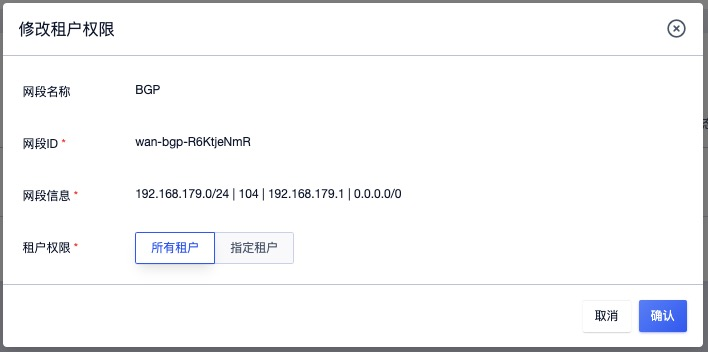
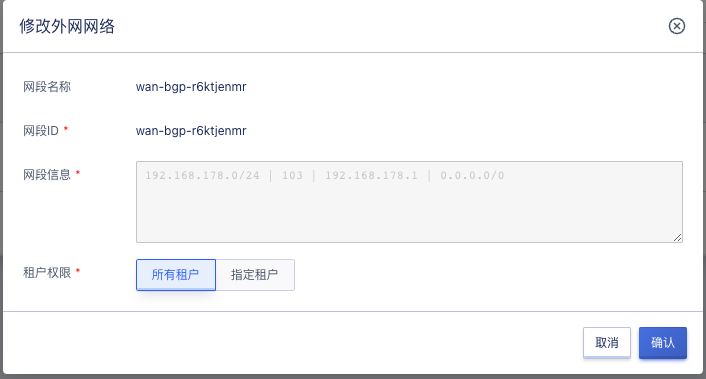
add 2.6

diff --git a/adminguide/license.md b/adminguide/license.md
@@ -2,61 +2,72 @@
 
 ## 11.1 概述
 
-授权管理支持客户按需对基层模块和增值服务模块分开授权，支持用户按照x86/arm架构区分授权节点，根据业务需求选择各模块的授权生效时间和失效时间，平台通过授权证书激活保证了密钥不可克隆验证的唯一性。
+授权管理支持客户按需对基层模块和增值服务模块分开授权，支持用户按照x86/arm架构区分授权节点，根据业务需求选择各模块授权的生效时间和失效时间，平台通过授权证书激活保证了密钥不可克隆验证的唯一性。
 
-平台为用户提供完整的授权管理能力，包括授权管理、服务管理和节点管理三大模块。
+平台为用户提供完整的授权管理能力，包括授权管理和节点管理两大模块。
 
-- 授权管理：查看客户的项目信息的授权状态及总揽授权对象信息等。
-- 服务管理：查看所有授权对象的授权状态和数量限制信息，了解产品授权生效和失效时间等。
+- 授权管理：查看平台基础许可、拓展许可和服务许可，了解产品授权的状态、生效时间、失效时间和数量限制信息等。
+
 - 节点管理：查看平台所有节点授权状态及节点信息情况等。
 
 ## 11.2 授权管理
 
-管理员对平台的信息进行采集供运营平台使用，运营平台确定用户的需求生成授权证书再上传至平台使用，如下图所示：
+管理员对平台的信息进行采集可点击【**信息采集**】按钮供运营平台使用，运营平台确定用户的需求生成授权证书再上传至平台可点击【**上传授权**】按钮使用，如下图所示：
 
 ![order](../images/adminguide/license.png)
 
-- 客户名称：授权验证的项目所属客户。
-- 项目名称：授权验证所属的项目。
-- 状态：项目授权状态。
-- 授权作用对象：包含授权证书授权作用对象及授权特性。
-- 开始时间：授权证书生效的时间。
-- 结束时间：授权证书失效的时间。
+### 11.2.1 查看基础拓展许可
 
-授权管理支持查看授权作用对象信息，如下图所示：
+基础许可：支持云计算基础设施管理系统套件-标准版、云计算基础设施管理系统套件-信创版和分布式块存储套件的授权；
 
-![order](../images/adminguide/licenseobject.png)
+拓展许可：支持云套件功能拓展、高级网络扩展、裸金属服务、USB 透传服务、GPU 服务、弹性伸缩服务、商用存储服务、文件存储服务、对象存储服务、MySQL 5.7 服务、Redis 4.0 服务和异构平台迁移软件服务的授权，如下图所示：
 
-## 11.3 服务管理
+![order](../images/adminguide/license.png)
 
-用户可通过服务管理查看授权对象的详细信息，了解到产品的数量限制、授权状态、生效和失效时间等，如下图所示：
+- 授权名称：授权产品名称；
+- 授权ID：授权唯一标识；
+- 描述：许可描述信息；
+- 状态：项目授权状态；
+- 开始时间：授权证书生效的时间；
+- 结束时间：授权证书失效的时间；
+- 操作：支持查看基础许可授权细节操作，如下图所示：
 
-![order](../images/adminguide/license1.png)
+### 11.2.2 查看服务许可
 
-- 授权对象：支持授权的产品，包含镜像、弹性伸缩、隔离组、运维、云硬盘、快照、负载均衡、安全组、应用商店、组播、MySQL、监控告警、外网IP、VPN、网关、物理机、VPC、网卡、虚拟机模板、NAT网关、对象存储、文件存储、VIP、虚拟机、Redis、数据库运维、外置存储、USB。
-- 状态：授权对象的授权状态。
-- 授权特性：显示对授权对象数量的限制。
-- 开始时间：授权对象被授权生效的时间。
-- 结束时间：授权对象被授权失效的时间。
+服务许可：支持云计算基础实施管理系统 + 增值服务5 * 8维保服务、云计算基础实施管理系统 + 增值服务7 * 24维保服务和金牌VIP维保服务，如下图所示：
 
-## 11.4 节点管理
+![order](../images/adminguide/service.png)
 
-用户可通过节点管理页面查看节点授权状态、地域信息、授权生效后失效时间等，如下图所示：
 
-![order](../images/adminguide/license2.png)
 
-- 名称：命名方式为平台节点对应的IP地址。
-- 序列号：节点的序列号信息。
-- 状态：平台节点授权状态。
-- 地域：当前节点所在地域。
+### 11.2.3 查看授权细节
+
+授权管理支持查看产品授权细节，如下图所示：
+
+![order](../images/adminguide/licensedetail.png)
+
+- 名称：授权的产品名称；
+- 内容：具体授权信息；
+- 单位：授权产品单位。
+## 11.3 节点管理
+
+用户可通过节点管理页面查看节点 IP 地址、序列号、角色、授权状态、CPU 型号、CPU 总量、内存总量和架构，如下图所示：
+
+![order](../images/adminguide/nodeset.png)
+
+- 名称：命名方式为平台节点对应的IP地址；
+- 序列号：节点的序列号信息；
+- 状态：查看平台节点角色和授权状态；
+- CPU 型号：节点 CPU 型号信息；
+- CPU 总量：节点 CPU 总量信息；
+- 内存总量：节点内存总量信息；
 - 架构：节点架构信息。
-- 节点类型：节点功能类型，可选择计算、管理、存储。
-- 开始时间：节点授权生效时间。
-- 结束时间：节点授权失效时间。
+
+### 11.3.1 查看节点信息
 
 节点管理支持通过节点名称访问节点基本信息、CPU信息和Memory信息，如下图所示：
 
-![order](../images/adminguide/licensenode.png)
+![order](../images/adminguide/node.png)
 
 
 

diff --git a/adminguide/physical.md b/adminguide/physical.md
@@ -214,7 +214,7 @@
 * 所属租户：代表申请该台裸金属的租户。
 * 状态：裸金属的状态信息。
 
-管理员可通过列表上的操作项对裸金属进行开启、关机、重启、准备控制台、控制台登录、释放控制台、强制关机、关机并重新开机、更新裸金属及删除等操作，同时支持通过列表对裸金属进行批量移除，方便运维操作。管理员也可通过裸金属名称进入裸金属的详情页面，查看裸金属的基本信息和配置信息。
+管理员可通过列表上的操作项对裸金属进行开启、关机、重启、VNC登录、准备控制台、控制台登录、释放控制台、强制关机、关机并重新开机、更新裸金属及删除等操作，同时支持通过列表对裸金属进行批量移除，方便运维操作。管理员也可通过裸金属名称进入裸金属的详情页面，查看裸金属的基本信息和配置信息。
 
 #### 5.2.3.4 更新裸金属
 
@@ -319,7 +319,7 @@
 
 导入镜像是指租户或平台管理员将第三方业务虚拟机以镜像的方式迁移到平台镜像仓库，使租户可以在通过导入的镜像创建并部署业务虚拟机，是用户将业务迁移的重要通道。
 
-支持用户导入 Linux 和 Windows 发行版及自定义镜像，并支持 X86 架构和 aarch64 两种系统架构镜像的导入；云平台的镜像格式默认为 RAW ，用户上传 VHD、VMDK、QCOW2、OVA、ISO 等格式的镜像时，需先将镜像转换为 QCOW2 格式的镜像才可导入，有关转换镜像及自定义镜像的具体操作可参考自制镜像列表上展示的[自定义镜像指南](/UCloudStack_v2.x/customimage/README.md) 。 
+支持用户导入 Linux 和 Windows 发行版及自定义镜像，并支持 X86 架构和 aarch64 两种系统架构镜像的导入；云平台的镜像格式默认为 RAW ，用户上传 VHD、VMDK、QCOW2、OVA、ISO 等格式的镜像时，需先将镜像转换为 QCOW2 格式的镜像才可导入，有关转换镜像及自定义镜像的具体操作可参考自制镜像列表上展示的 [自定义镜像指南](/UCloudStack_v2.x/customimage/README.md) 。 
 
 制作好自定义镜像后，可通过镜像管理控制台资源列表上方的【导入镜像】功能，进入导入镜像向导页面：
 
@@ -410,7 +410,8 @@
   - 指定路由：即管理员指定目的地址（如 10.0.2.0/24 ）的流量以绑定的外网 IP 为出口。
   - 暂不指定：即该网段不自动下发路由，仅可通过此外网 IP 地址与本网段进行通信。
 * 支持管理员为云平台添加 IPv4 或 IPv4 版本的网段，使平台租户可同时申请 IPv4 和 IPv6 版本的外网 IP ，并绑定至虚拟机提供网络服务。
-* 支持管理对每个网段的开放范围进行控制及修改，默认为所有租户（所有租户可申请并使用网段 IP），支持配置为部分租户（指定的租户才可申请并使用网段 IP，未指定租户无法查看并申请网段 IP）
+* 支持管理对每个网段的开放范围进行控制及修改，默认为所有租户（所有租户可申请并使用网段 IP），支持配置为部分租户（指定的租户才可申请并使用网段 IP，未指定租户无法查看并申请网段 IP）。
+* 支持管理员对每个网段添加标签，使得在申请EIP、以及创建虚拟机时的外网IP配置页面，可以根据标签过滤出需要的线路。
 
 为方便管理员和运维人员，平台提供外网网段的查看、修改等生命周期管理。外网网段中 IP 地址的带宽规格可参考全局配置中的【规格配置】
 
@@ -418,19 +419,19 @@
 
 ### 5.4.1 查看外网网段
 
-管理员可通过外网网段控制台的列表查看已创建的外网网段的列表信息，包括网段 ID、名称、IP 版本、网段、网关、网卡、Vlan、租户权限、状态、更新时间以及操作（支持批量删除、创建外网网络、修改外网网络权限），如下图所示：
+管理员可通过外网网段控制台的列表查看已创建的外网网段的列表信息，包括网段 ID、名称、IP 版本、网段、网关、网卡、Vlan、、标签、租户权限、状态、更新时间以及操作（支持批量删除、创建外网网络、修改外网网络权限），如下图所示：
 
 ![image](../images/adminguide/image.png)
 
 租户权限中或指定所有租户展示为【所有租户】，若指定的为部分租户，则展示有权限的租户邮箱地址信息。
 
-### 5.4.2 修改租户权限
+### 5.4.2 修改外网网络
 
 当需要将一段外网网段独享给部分租户时，管理员可修改外网网段的租户权限，如下图所示：
 
 ![upnetauth](../images/adminguide/upnetauth.png)
 
-修改租户权限后，无权限的租户即无法查看并使用外网网段的 IP 地址，但不影响已申请外网 IP 地址的使用，若租户释放了外网 IP ，则无法在申请该网段的  IP 地址。
+修改外网网络的租户权限后，无权限的租户即无法查看并使用外网网段的 IP 地址，但不影响已申请外网 IP 地址的使用，若租户释放了外网 IP ，则无法在申请该网段的  IP 地址。
 
 ### 5.4.3 创建外网网络
 

diff --git a/userguide/tag.md b/userguide/tag.md
@@ -32,7 +32,8 @@
 - 虚拟机除过删除，删除中和失败的资源不能更新标签，其他状态下可修改资源绑定的标签内容。
 
 ### 35.1.4 支持的资源
-目前支持的资源类型包括：虚拟机
+目前租户侧支持的资源类型包括：虚拟机
+管理侧支持的资源类型包括：虚拟机、外网网络
 
 ## 35.2 标签操作指南
 
@@ -41,12 +42,12 @@
 
 ![createmysql](../images/userguide/tagdiscirbe.png)
 
-### 35.2.1 创建标签
+### 35.2.2 创建标签
 点击标签管理左上角创建按钮，弹出标签创建弹窗，按照格式要求[使用限制](#_3513-使用限制)填写标签键和标签值，点击添加行后面加号可添加新的一条键值对，点击标签值后边的加号可添加该标签下的新value值。如下图所示：
 
 ![createmysql](../images/userguide/tagcreate.png)
 
-### 35.2.1 标签添加资源
+### 35.2.3 标签添加资源
 
 点击标签操作中的绑定资源按钮，弹出绑定资源弹窗，支持查看不同地域下不同类型的可绑定资源列表。点击列表前方框可批量添加资源，已绑定标签值中展示的是当前键下该资源已绑定的一个value的值。未展示则该键下当前资源还未绑定value值。添加界面如下图所示：
 
@@ -55,13 +56,13 @@
 
 虚拟机界面可在操作中点击更多操作，点击修改标签，修改该虚拟机下绑定的标签资源，支持对该资源下的标签进行删除，添加操作。
 
-### 35.2.1 标签解绑资源
+### 35.2.4 标签解绑资源
 
 点击标签操作中的查看资源，弹出此标签所绑定的资源列表，支持查看资源ID，资源类型，地域信息，操作解绑资源。选择资源前方框可批量选择，点击左上方解绑资源批量解绑，也可在资源行最后通过解绑资源按钮来实现解绑资源。
 
 ![createmysql](../images/userguide/taguntievm.png)
 
-### 35.2.1 删除标签
+### 35.2.5 删除标签
 
 点击标签行删除按钮，弹出如下图所示弹窗，点击确定删除标签，支持批量删除。删除时需要确定标签内未绑定资源，否则无法删除。
 

diff --git a/userguide/vm.md b/userguide/vm.md
@@ -15,7 +15,7 @@
 
 如图所示，实例规格、镜像、VPC 网络是运行虚拟机必须指定的基础资源，即指定虚拟机的 CPU 内存、操作系统、虚拟网卡及 IP 信息。在虚拟机基础之上，可绑定云硬盘、弹性 IP 及安全组，为虚拟机提供数据盘、公网 IP 及网络防火墙，保证虚拟机应用程序的数据存储和网络安全。
 
-在虚拟化计算能力方面，平台提供 GPU 设备透传能力，支持用户在平台上创建并运行 GPU 虚拟机，让虚拟机拥有高性能计算和图形处理能力。**支持透传的设备包括 NVIDIA 的 K80、P40、V100、2080、2080Ti、T4 及 华为 Atlas300** 等，支持VGPU切割还原, 提供灵活配置的VGPU虚拟机,让用户更加充分的使用GPU算力，支持VGPU的设备包括NVIDIA的P40。
+在虚拟化计算能力方面，平台提供 GPU 设备透传能力，支持用户在平台上创建并运行 GPU 虚拟机，让虚拟机拥有高性能计算和图形处理能力。**支持透传的设备包括 NVIDIA 的 K80、P40、V100、2080、2080Ti、T4 及 华为 Atlas300** 等。
 
 
 ## 3.2 创建虚拟机
@@ -93,7 +93,7 @@
       * CentOS 的管理员为 `root` ，Ubuntu 的管理员为 `ubuntu` ，Debian 的管理员为 `root`， Windows 系统的管理员名称为  `administrator` ；
  * 标签：选择已创建的标签键值对绑定虚拟机资源。
 
-  创建虚拟机选择的镜像既无cloud-init特性也无qemu-ga特性时，管理员名称、登录方式、管理员密码不展示。
+  > 创建虚拟机选择的镜像既无cloud-init特性也无qemu-ga特性时，管理员名称、登录方式、管理员密码不展示。
 
 8. 配置高级设置，包括主机名、USB、DNS、CPU启动模式，高可用模式，隔离组，自定义数据。
 

diff --git a/adminguide/set.md b/adminguide/set.md
@@ -28,7 +28,7 @@
 
 通过导航栏的【集群】中的【计算集群】可进入平台计算集群管理控制台，也可通过【地域详情】中的【计算集群】进行特定地域的计算集群管理。
 
-管理员可通过计算集群控制台查看特定地域的所有计算集群列表及信息，包括集群 ID、集群类型、集群类型名称、CPU 用量、物理 GPU 用量、vGPU 用量、内存用量及创建时间，如下图所示：
+管理员可通过计算集群控制台查看特定地域的所有计算集群列表及信息，包括集群 ID、集群类型、集群类型名称、CPU 用量、物理 GPU 用量、内存用量及创建时间，如下图所示：
 
 ![computesetlist](../images/adminguide/computesetlist.png)
 
@@ -36,7 +36,6 @@
 - 集群类型名称：标志集群的名称，即在租户端的机型，租户在创建虚拟机时可选择不同的集群部署虚拟机。
 - CPU 用量 ：集群中总 vCPU 核数，即平台用户在集群中可申请的 vCPU 核数。
 - 物理 GPU 用量：集群中所有物理节点上的所有 GPU 设备总颗数。
-- vGPU 用量：集群中所有物理节点上的所有 vGPU 设备总颗数。
 - 内存用量：集群中总的内存容量，即平台用户在集群中可申请的内存容量。
 - 创建时间 ：计算集群的创建时间
 

diff --git a/userguide/alarm.md b/userguide/alarm.md
@@ -28,7 +28,7 @@
 平台为管理员的节点、计算集群、存储集群提供多种监控指标的实时监控图表，并可按照用户的需求对告警模版进行配置，用于阈值超标的时给予告警和通知。
 
 - 节点监控图表：通过节点详情页面的监控信息可查看，包括CPU使用率、内存使用率、GPU使用率。
-- 计算集群监控图表：通过计算集群详情页面的监控信息可查看，包括CPU分配率、内存分配率、GPU分配率、vGPU分配率。
+- 计算集群监控图表：通过计算集群详情页面的监控信息可查看，包括CPU分配率、内存分配率、GPU分配率。
 - 存储集群监控图表：通过存储集群详情页面的监控信息可查看，包括存储分配率。
 
 监控图表可根据时间维度展示实时监控数据，同时支持查看 1 小时及自定义时间的监控数据及图表信息。

diff --git a/adminguide/screen.md b/adminguide/screen.md
@@ -10,6 +10,8 @@
 
 虚拟机 TOP5：展示CPU使用率、硬盘读吞吐、硬盘写吞吐、内存使用率在前 5 名的虚拟机 ID 。
 
+裸金属 TOP5：展示CPU使用率、内存使用率在前 5 名的虚拟机 ID 。
+
 资源分配：展示云平台 CPU、内存、存储的总容量以及已分配容量的百分比。
 
 资源概览：展示物理机总量以及状态分布（可用、锁定）、计算集群和存储集群的数量分布、虚拟机总量以及状态分布（运营、关机、其他）。
